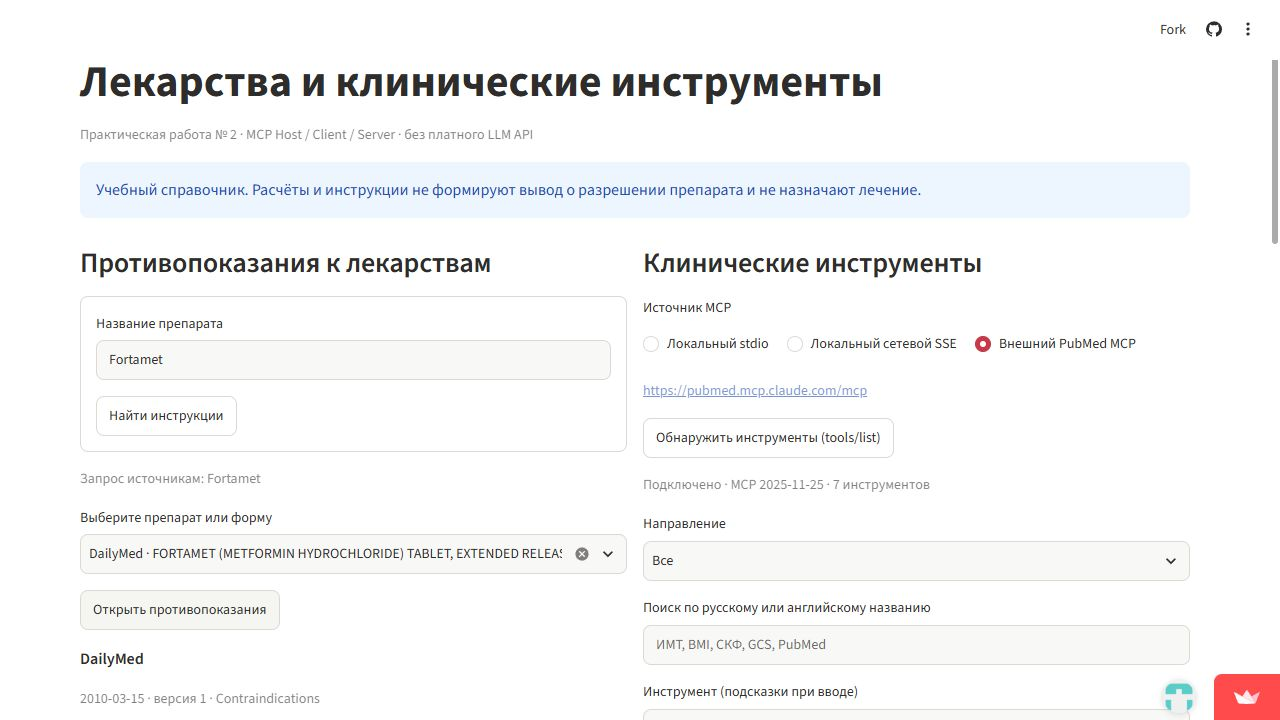
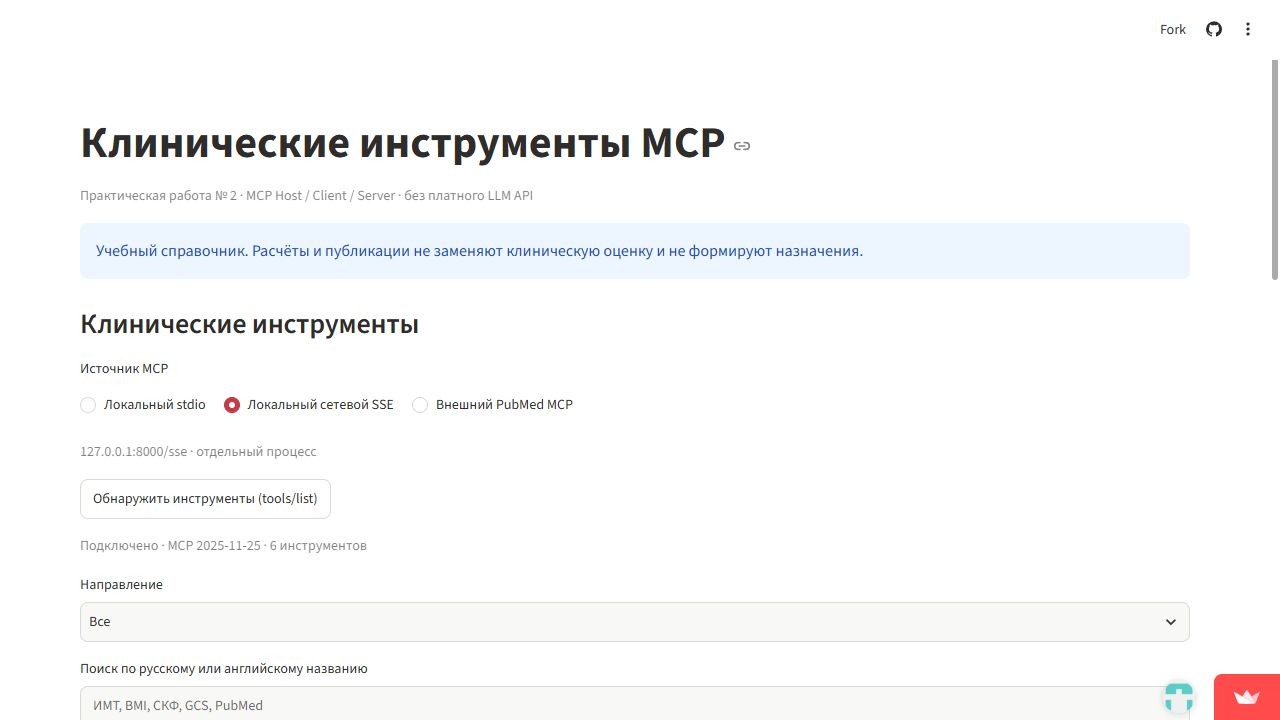
docs: record cloud verification after drug search removal

diff --git a/docs/verification.md b/docs/verification.md
@@ -6,4 +6,7 @@
 
 Публичное приложение: https://n9nrqsghaw8zqgfnrx4tku.streamlit.app/
 
-Облачная проверка новой версии выполняется после публикации изменения. Предыдущие проверки облака относились к прежней версии и не считаются проверкой нового состава инструментов.
+Облачная проверка версии 56165b3 выполнена 23 ноября 2026 года через публичный интерфейс: новый заголовок, отсутствие лекарственной формы, SSE tools/list — 6 инструментов; BMI при 70 кг и 175 см — 22.86 кг/м². GitHub Actions для этой версии завершился успешно. Новый снимок интерфейса: cloud-verification.jpg. Проверки PubMed предыдущей версии не заменяют повторный сетевой тест.
+
+
+Повторный scripts/live_check.py после удаления завершился успешно: stdio BMI 22.86; SSE GCS 15; внешний PubMed tools/list — 7 инструментов, search_articles по DOI 10.1056/NEJMoa2102953 вернул PMID 34554658. Проверка выполнена с разрешённым сетевым доступом.
